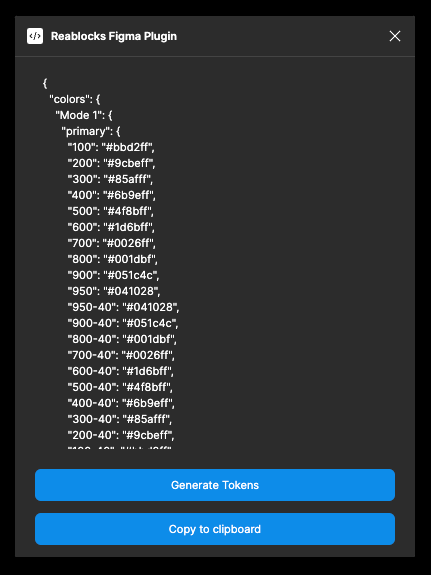
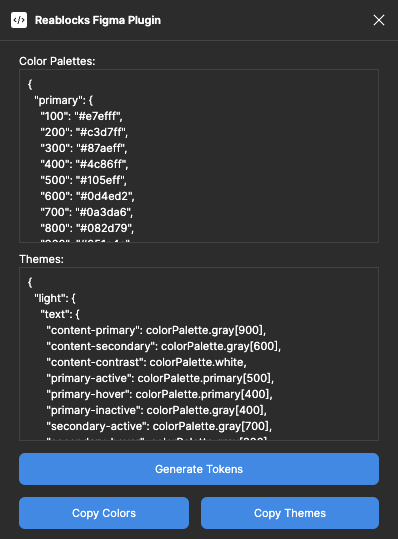
update readme and screenshot

diff --git a/README.md b/README.md
@@ -24,8 +24,10 @@ Plugin utilities to super charge your dev work for [reablocks](https://github.co
 - Search for new plugins using "Find More plugins option" and search for "Reablocks Figma Plugin"
 - Once found, click on run plugin, it will open a popup
 - Click on "Generate Tokens"
-- Click on "Copy Tokens"
-- Use the copied tokens to your project
+- Click on "Copy Colors" to grab all of color tokens
+- Use the copied tokens in your project's color palette
+- Click on "Copy Themes" to grab all of your design tokens for your theme
+- Use the copied tokens in your project's theme
 
 ## Development guide
 
